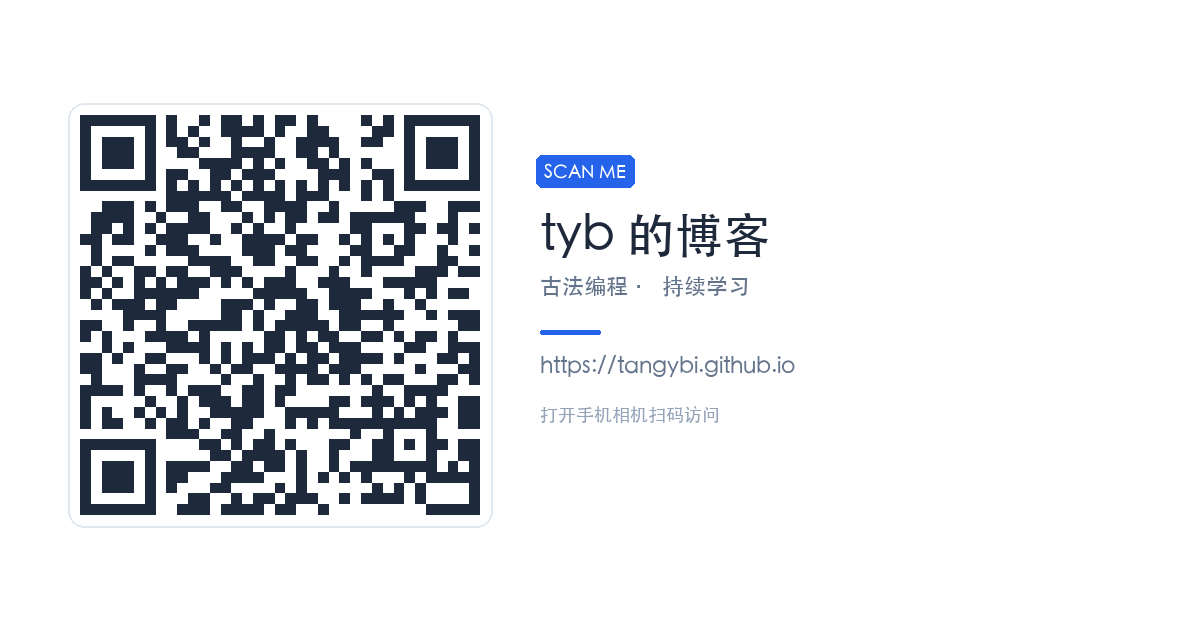
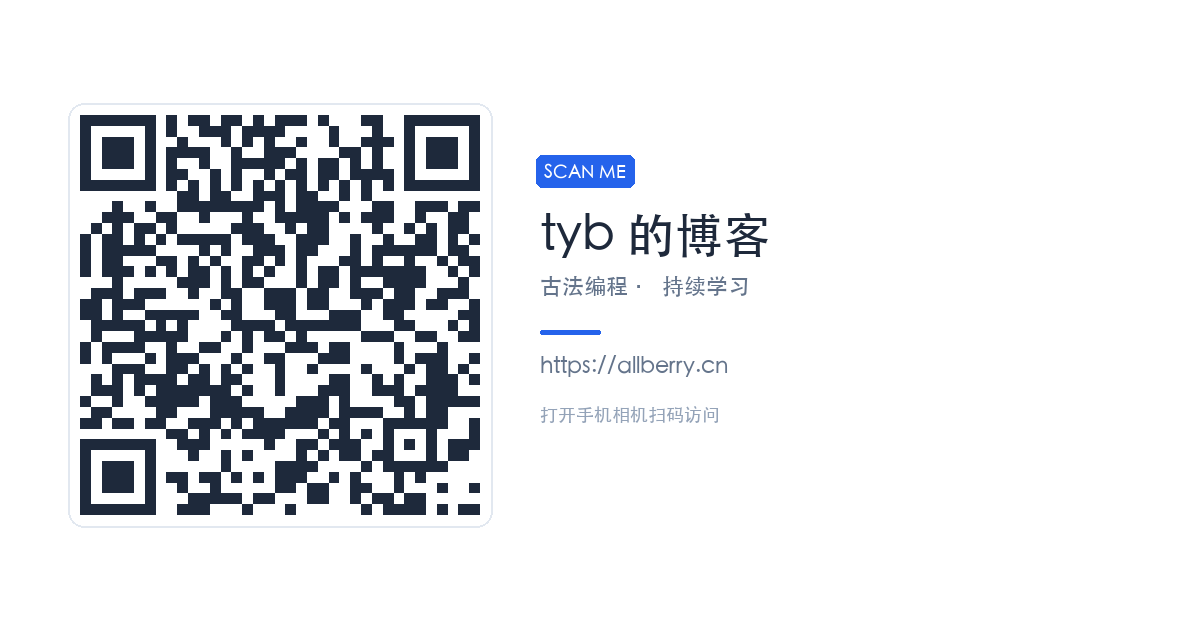
修改域名

Changed region(s): [[0.0617, 0.181, 0.4008, 0.8143], [0.4933, 0.573, 0.6783, 0.6032]]

diff --git a/scripts/generate_og_image.py b/scripts/generate_og_image.py
@@ -9,7 +9,7 @@ import os
 # ============ 配置 ============
 WIDTH = 1200
 HEIGHT = 630
-SITE_URL = 'https://tangybi.github.io'
+SITE_URL = 'https://allberry.cn'
 
 # 配色
 BG_COLOR = (255, 255, 255)       # 白底
